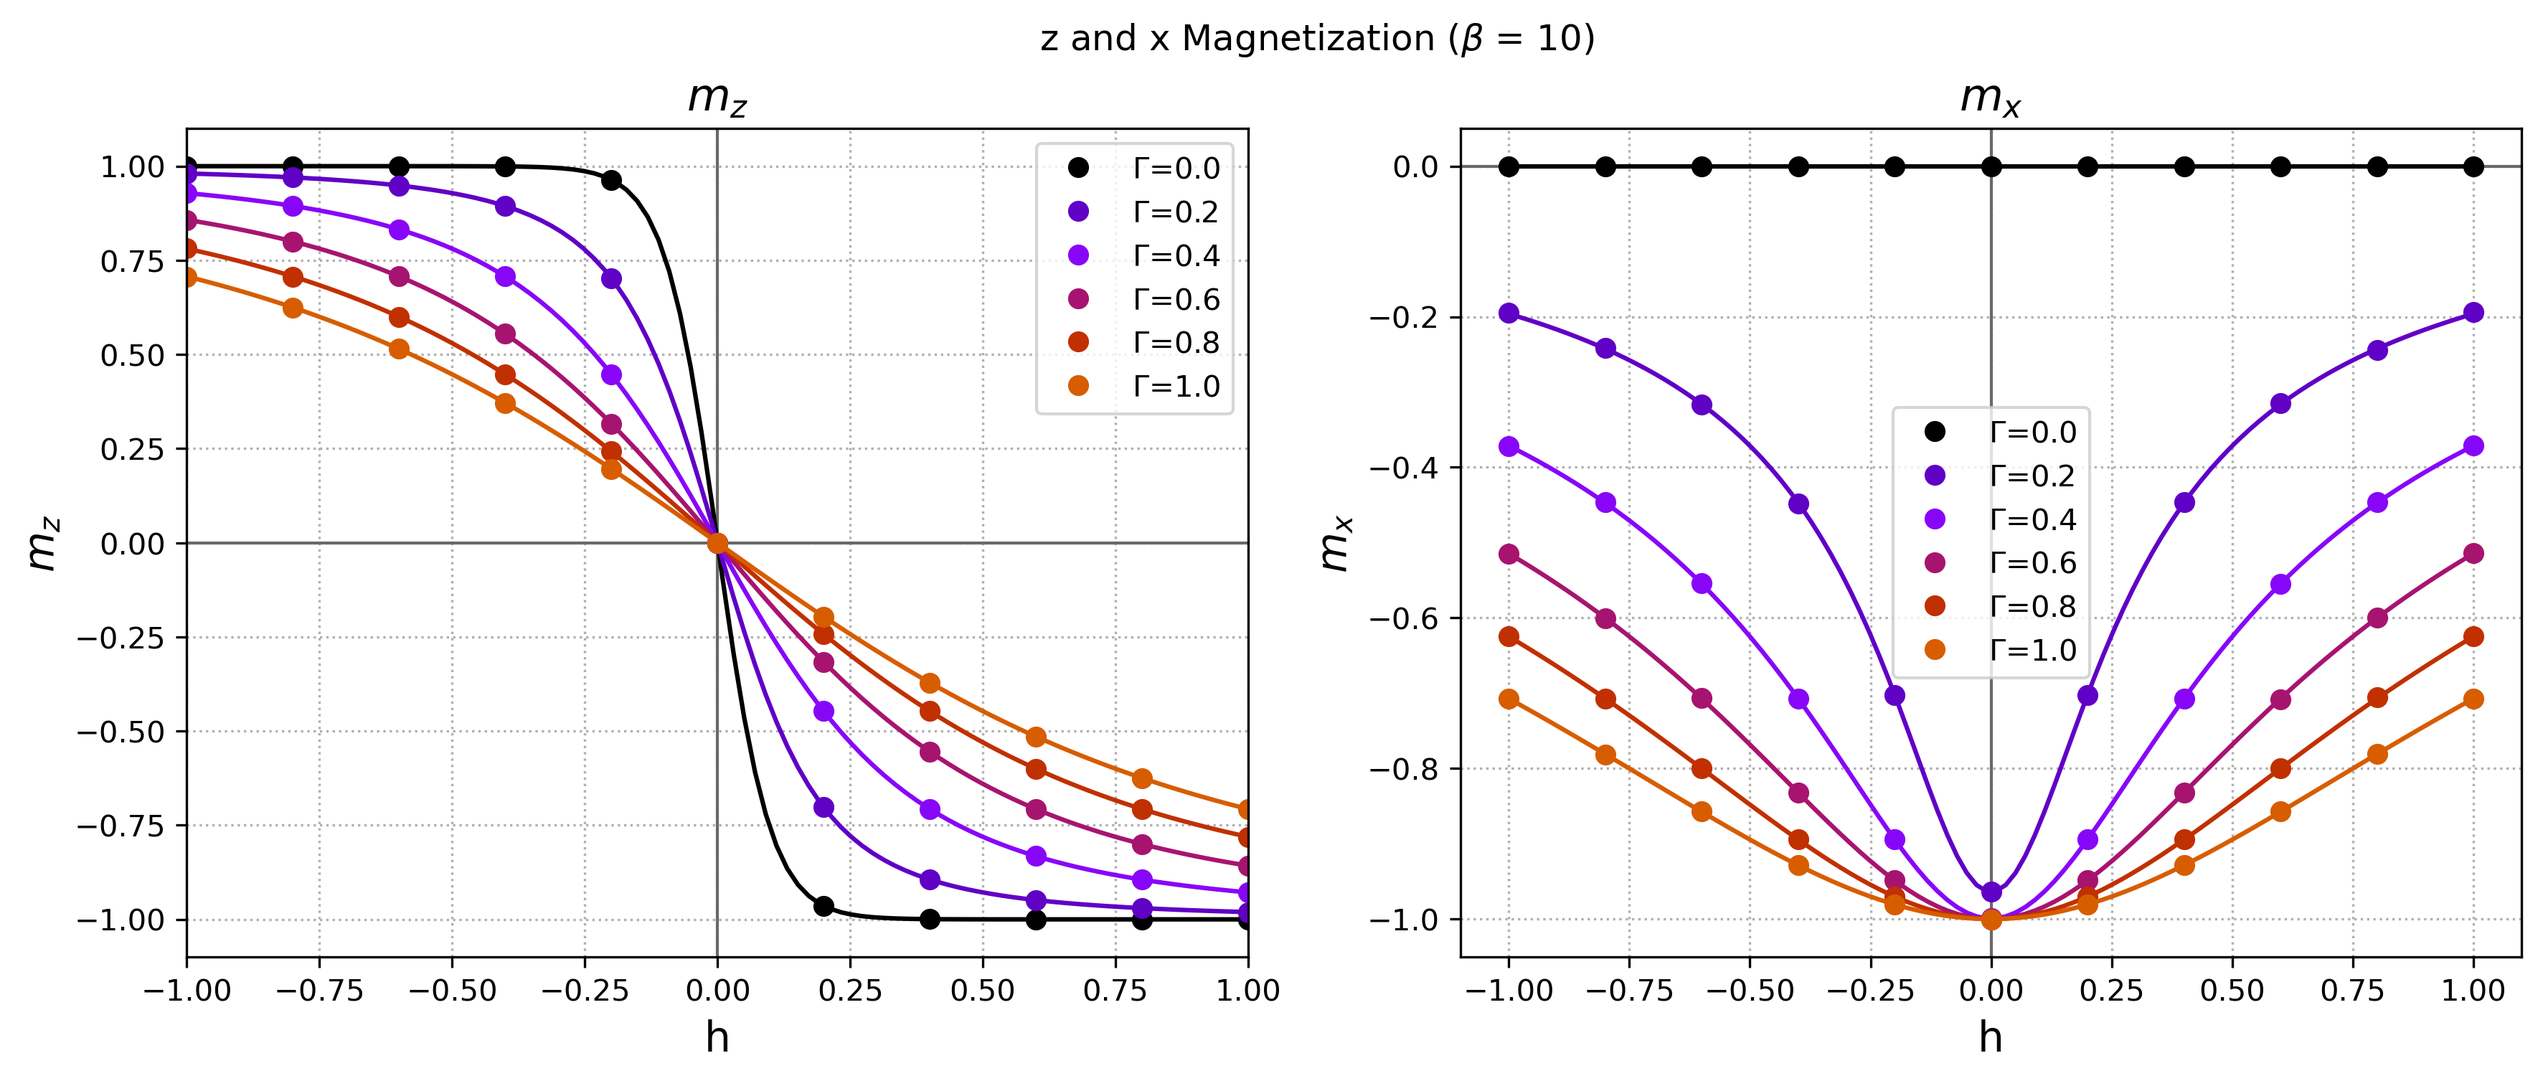
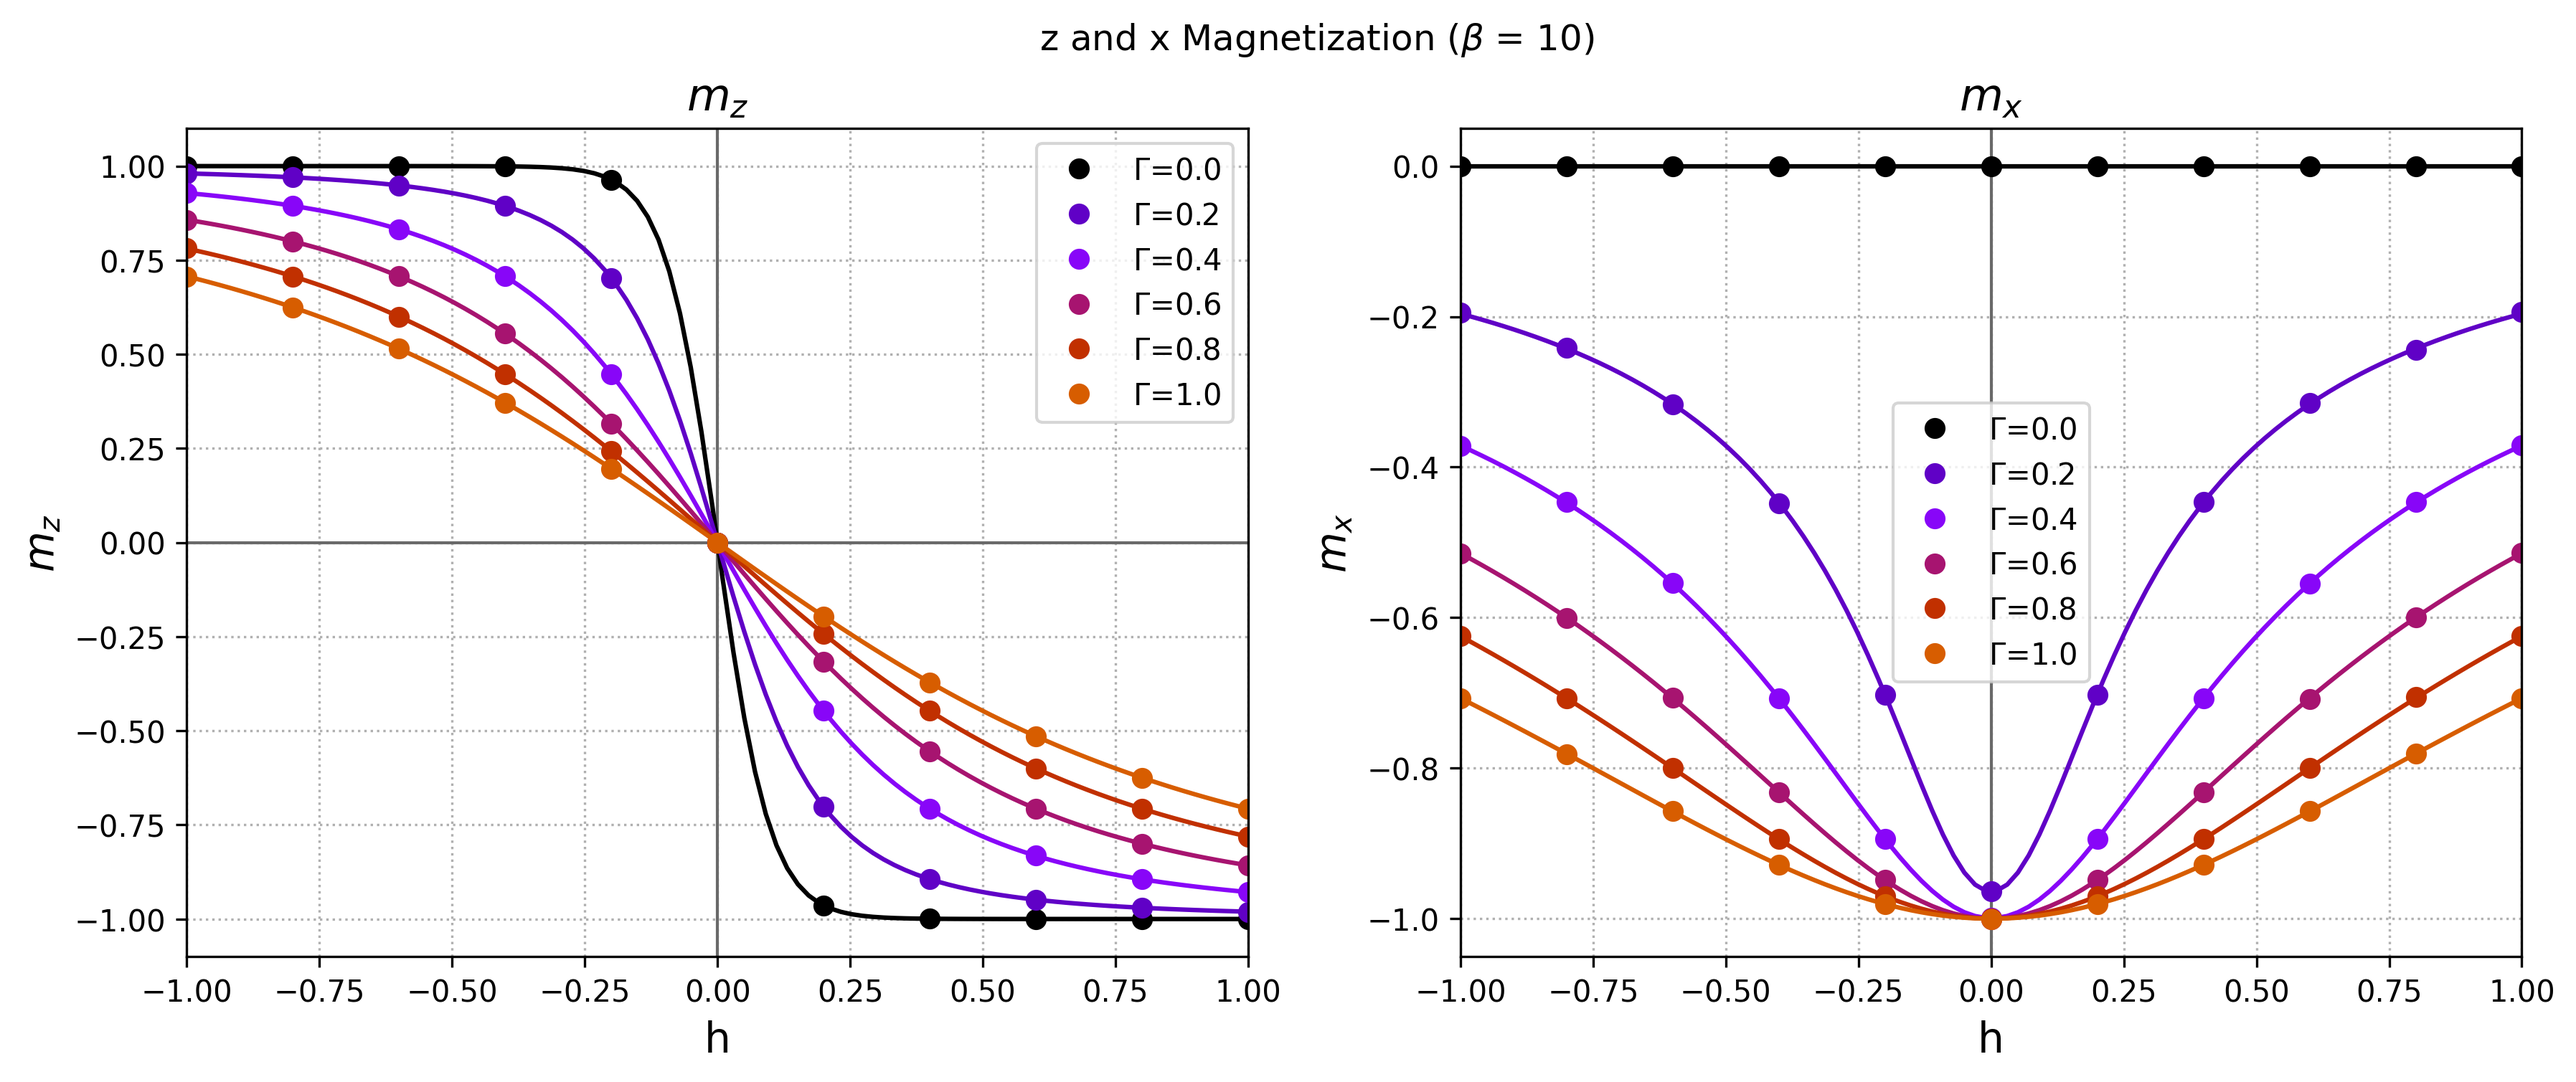
Update README.md with installation instructions

diff --git a/examples/plot_h_gamma_sweep.py b/examples/plot_h_gamma_sweep.py
@@ -64,7 +64,7 @@ def plot_sweep(results_filename : str = 'results_sweep.csv'):
     ax2.set_title('$m_x$')
     ax2.set_ylabel('$m_x$')
     ax2.set_xlabel('h')
-    ax1.set_xlim(-1,1)
+    ax2.set_xlim(-1,1)
     ax2.grid(linestyle='dotted')
     ax2.legend()
 

diff --git a/README.md b/README.md
@@ -1,2 +1,64 @@
 # DiagMC
 ![example workflow](https://github.com/Enry99/DiagMC/actions/workflows/cmake-multi-platform.yml/badge.svg)
+[![License: GPL v3](https://img.shields.io/badge/License-GPLv3-blue.svg)](https://www.gnu.org/licenses/gpl-3.0)
+
+## Installation using CMake
+The installation procedure relies on [CMake](https://cmake.org/), which is cross-platform and can be used on many operative systems, like Linux and Windows.\
+Note that on Windows you need to have an available C++ compiler, such as [MSVC](https://docs.microsoft.com/en-us/cpp/), which is provided with [Visual Studio](https://visualstudio.microsoft.com/).\
+A viable alternative on Windows is to use [Windows Subsystem for Linux](https://learn.microsoft.com/en-us/windows/wsl/).
+
+First, **clone the repository** in your local machine using [git](https://git-scm.com/):
+```sh
+$ git clone https://github.com/Enry99/DiagMC.git
+```
+This will create a folder called ```DiagMC```. Go inside this folder with:
+```sh
+$ cd DiagMC
+```
+Now **build and install** the program using **CMake**:
+```sh
+$ mkdir build
+$ cd build
+$ cmake ..
+$ cmake --build . --target install
+```
+**The program executable can be found in ```DiagMC/bin```**.
+
+Note that by default the build type is set to ```Release```. To build for ```Debug```, instead of ```$ cmake ..``` in the third line, run:
+```sh
+$ cmake .. -DCMAKE_BUILD_TYPE="Debug"
+```
+Be aware that due to the absence of compiler optimization, the performance of the program built in Debug mode is massively impacted.
+
+### Dependencies
+The program depends on the [json](https://github.com/nlohmann/json.git) library for reading the settings from file, and on [googletest](https://github.com/google/googletest.git) for unit testing.
+Both dependencies are automatically downloaded and included by CMake during the build process, so an Internet connection is required during the installation.
+
+It is possible to exclude the googletest dependency by building without tests:
+```sh
+$ cmake .. cmake .. -DBUILD_TESTING=OFF
+```
+However, testing is recommended before using the program.
+
+
+### Execute unit tests
+In order to execute the tests, go to the  ```build``` directory and run:
+```sh
+$ ctest
+```
+
+## Examples
+
+<img src="/examples/sweep_beta=10.0.png" width="800">
+<img src="/examples/convergence_test.png" width="800">
+
+
+
+
+
+## License
+[![License: GPL v3](https://img.shields.io/badge/License-GPLv3-blue.svg)](https://www.gnu.org/licenses/gpl-3.0)
+
+This work is licensed under the [GNU General Public License Version 3][GPLv3].
+
+[GPLv3]: https://www.gnu.org/licenses/gpl-3.0
